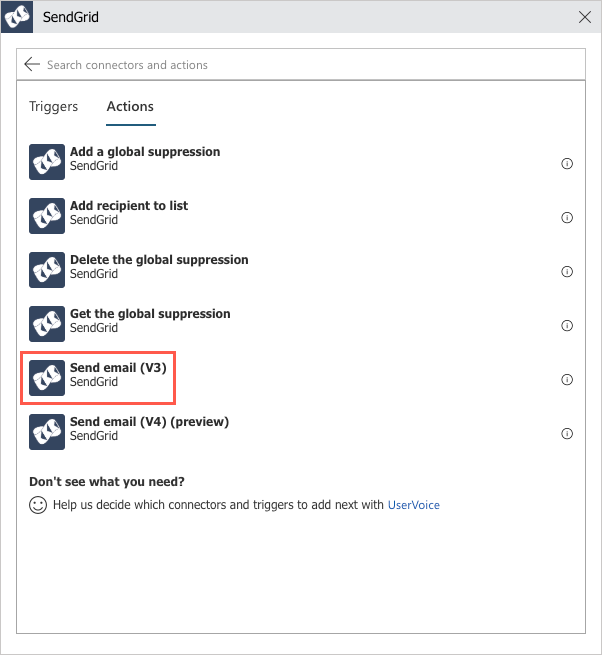
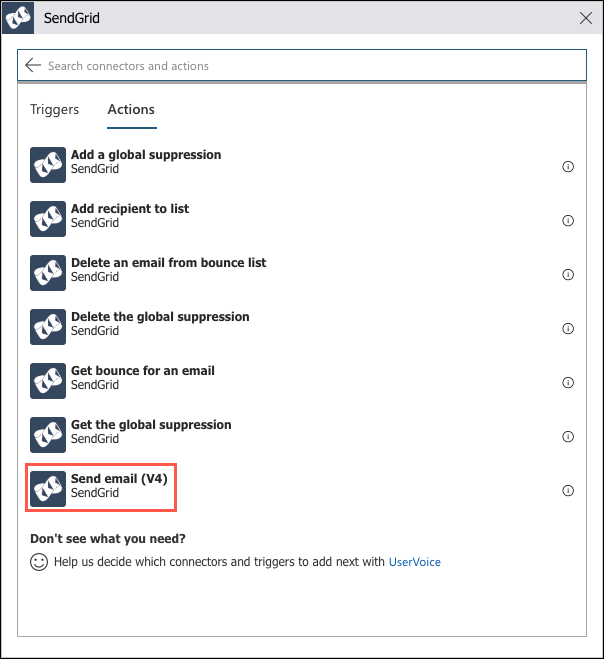
HOL exercise 7 updates

Changed region(s): [[0.0, 0.0, 1.0, 1.0]]

diff --git a/Hands-on lab/HOL step-by step - OSS PaaS and DevOps.md b/Hands-on lab/HOL step-by step - OSS PaaS and DevOps.md
@@ -63,8 +63,8 @@ Microsoft and the trademarks listed at <https://www.microsoft.com/en-us/legal/in
     - [Task 2: Create a timer triggered function](#task-2-create-a-timer-triggered-function)
     - [Task 3: Create Queue function](#task-3-create-queue-function)
   - [Exercise 7: Create Logic App for sending email notifications](#exercise-7-create-logic-app-for-sending-email-notifications)
-    - [Task 1: Create SendGrid account](#task-1-create-sendgrid-account)
-    - [Task 2: Create Logic App](#task-2-create-logic-app)
+    - [Task 1: Create a SendGrid account](#task-1-create-a-sendgrid-account)
+    - [Task 2: Create a Logic App](#task-2-create-a-logic-app)
   - [After the hands-on lab](#after-the-hands-on-lab)
     - [Task 1: Delete Azure resource groups](#task-1-delete-azure-resource-groups)
     - [Task 2: Delete WebHooks and Service Integrations](#task-2-delete-webhooks-and-service-integrations)
@@ -1583,11 +1583,11 @@ This uses an Azure Storage Queue trigger, and an input dataset from Cosmos DB, p
 
 Duration: 30 minutes
 
-In this exercise, you create Logic App which will trigger when an item is added to the `notificationqueue` Azure Storage Queue. The Logic App will send an email message to the email address included in the `notificationqueue` message.
+In this exercise, you create Logic App, which triggers whenever an item is added to the `notificationqueue` Azure Storage Queue. The Logic App sends an email message to the email address included in the `notificationqueue` message.
 
-### Task 1: Create SendGrid account
+### Task 1: Create a SendGrid account
 
-In this task, you will create a SendGrid account through the Azure portal to send email notifications to customers, informing them that their order has been processed, and is on its way.
+In this task, you will create a SendGrid account through the Azure portal to send email notifications to customers, informing them that their order has been processed and is on its way.
 
 1. In the [Azure portal](https://portal.azure.com/), select the **Show portal menu** icon and then select **+Create a resource** from the menu.
 
@@ -1601,33 +1601,45 @@ In this task, you will create a SendGrid account through the Azure portal to sen
 
     ![The Create button is highlighted on the SendGrid blade.](media/sendgrid-create.png "Create SendGrid")
 
-4. On the Create a new SendGrid Account blade, enter the following:
+4. On the Create a new SendGrid Account **Basics** tab, enter the following:
+
+    **Project details**:
+
+    - **Subscription** Select the subscription you are using for this hands-on lab.
+    - **Resource group**: Choose **Use existing** and select the **hands-on-lab-SUFFIX** resource group.
+    - **Location**: Select the location you are using for resources in this hands-on lab.
+
+    **Account details**:
 
     - **Name**: Enter **bfyoemail**.
     - **Password**: Enter **Password.1!!**
-    - **Subscription** Select the subscription you are using for this hands-on lab.
-    - **Resource group**: Choose **Use existing** and select the **hands-on-lab-SUFFIX** resource group.
-    - **Pricing tier**: Select **F1 Free** and choose **Select**.
-    - **Contact information**: Enter your name, company, and email address and select **OK**.
-    - **Legal terms**: Review the legal terms and enter a phone number and then select **OK**.
+    - **Pricing tier**: Select the **Free** plan.
 
-    ![The values specified above are entered into the create a new SendGrid account blade.](media/sendgrid-create-settings.png "Create SendGrid account")
+    **Contact details**:
 
-5. Select **Create** to provision the SendGrid account.
+    - Enter your information into the required fields (First Name, Last Name, Email, Company, and Website)
+
+        > **Note**: Website is not listed as a required field, but currently, the deployment fails if this is not populated.
+
+    ![The SendGrid configuration values specified above are entered into the create a new SendGrid account blade.](media/sendgrid-create-settings.png "Create SendGrid account")
+
+5. Select **Review + create** and then select **Create** to provision the SendGrid account.
 
 6. When the SendGrid account finishes provisioning, select **Go to resource** from the notifications pane in the Azure portal.
 
-    ![The Go to resource button in highlighted in the SendGrid deployment notification.](media/go-to-resource-sendgrid.png "Go to resource")
+    ![The Go to resource button is highlighted in the SendGrid deployment notification.](media/go-to-resource-sendgrid.png "Go to resource")
 
 7. On the SendGrid account blade, select **Manage** from the toolbar.
 
     ![The Manage button is highlighted on the SendGrid account toolbar.](media/sendgrid-manage.png "SendGrid account Manage")
 
-8. On the SendGrid page that opens, expand **Settings** in the left-hand menu, select **API Keys**, and then select **Create API Key**.
+8. If prompted, select **Send Confirmation Email** and follow the prompts in the email you receive to confirm your account.
+
+9. On the SendGrid page that opens, expand **Settings** in the left-hand menu, select **API Keys**, and then select **Create API Key**.
 
     ![The Create API Key button is highlighted on the API Keys page.](media/sendgrid-create-api-key.png "SendGrid API Keys")
 
-9. On the Create API Key page, enter the following:
+10. On the Create API Key page, enter the following:
 
     - **API Key Name**: Enter **bfyo-api-key**.
     - **API Key Permissions**: Select **Full Access**.
@@ -1635,13 +1647,13 @@ In this task, you will create a SendGrid account through the Azure portal to sen
 
     ![The values specified above are entered into the Create API Key page.](media/sendgrid-create-api-key-page.png "Create API Key")
 
-10. Leave the API Key Created screen that appears open. You will be copying the key and pasting it into your Logic App in the next task.
+11. Leave the API Key Created screen that appears open. You will be copying the key and pasting it into your Logic App in the next task.
 
     ![The API Key Created screen is displayed.](media/sendgrid-api-key-created.png "API Key Created")
 
-### Task 2: Create Logic App
+### Task 2: Create a Logic App
 
-In this task, you will create a new Logic App, which will use the SendGrid connector to send email notifications to users, informing them that their order has processed and shipped.
+In this task, you create a new Logic App, which uses the SendGrid connector to send email notifications to users, informing them that their order has processed and shipped.
 
 1. In the Azure portal, navigate to your Logic App in the **hands-on-lab-SUFFIX** resource group.
 
@@ -1671,7 +1683,7 @@ In this task, you will create a new Logic App, which will use the SendGrid conne
 
 8. In the **Choose an action box**, enter "parse," and select **Data Operations**.
 
-    ![In the When there are messages in a queue dialog box, Parse is in the Choose an action box, and Data Operations below in the list.](media/data-operations-parse.png "When there are messages in a queue dialog box")
+    ![In the When there are messages in a queue dialog box, Parse is in the Choose an action box and Data Operations below in the list.](media/data-operations-parse.png "When there are messages in a queue dialog box")
 
 9. Under Data Operations, select **Parse JSON**.
 
@@ -1693,7 +1705,7 @@ In this task, you will create a new Logic App, which will use the SendGrid conne
 
     ![The JSON above is pasted in the sample JSON payload dialog box, and Done is selected below.](media/logic-app-parse-json-sample-payload.png "Paste the JSON in the dialog box")
 
-13. You will now see the Schema for messages coming from the notification queue in the Schema box.
+13. You will now see the schema for messages coming from the notification queue in the Schema box.
 
     ![The completed Parse JSON box is displayed.](media/logic-app-parse-json-complete.png "Parse JSON")
 
@@ -1705,9 +1717,9 @@ In this task, you will create a new Logic App, which will use the SendGrid conne
 
     ![SendGrid is entered into the search box, and the SendGrid connection is highlighted under connectors.](media/logic-app-connectors-sendgrid.png "Choose a connector")
 
-16. In the **SendGrid** connector dialog, select **Send email (V3)**.
+16. In the **SendGrid** connector dialog, select **Send email (V4)**.
 
-    ![Send email (v2) is highlighted in the list of SendGrid actions.](media/logic-app-sendgrid-send-email.png "SendGrid")
+    ![Send email (v4) is highlighted in the list of SendGrid actions.](media/logic-app-sendgrid-send-email.png "SendGrid")
 
 17. In the **SendGrid** box, enter the following:
 
@@ -1717,7 +1729,7 @@ In this task, you will create a new Logic App, which will use the SendGrid conne
 
     ![The SendGrid connection configuration information above is entered into the SendGrid box.](media/logic-app-sendgrid-create.png "SendGrid")
 
-18. In the **Send email (V3)** box, enter the following:
+18. In the **Send email (V4)** box, enter the following:
 
     - **From**: Enter your email address.
     - **To**: Click in the box, select **Add dynamic content**, and then select the **notificationEmail** property. **NOTE**: If under the Parse JSON Dynamic Content section, you see a message that there were not any outputs to match the input format, select **See more** in the message.
@@ -1733,7 +1745,7 @@ In this task, you will create a new Logic App, which will use the SendGrid conne
 
     ![The Add an action button is highlighted under + New step.](media/logic-app-new-step.png "Add an action button")
 
-20. In the **Choose an action** dialog, enter "queues" in to the search box, and select **Delete message** under Actions.
+20. In the **Choose an action** dialog, enter "queues" into the search box, and select **Delete message** under Actions.
 
     ![Queue is highlighted in the Choose an action search box, and Azure Queues -- Delete message is highlighted below.](media/logic-app-azure-queues-delete-message.png "Choose an action dialog box")
 
@@ -1757,14 +1769,13 @@ In this task, you will create a new Logic App, which will use the SendGrid conne
 
 Duration: 10 minutes
 
-In this exercise, you will de-provision all Azure resources that were created in support of this hands-on lab.
+In this exercise, you will de-provision all Azure resources that you created in support of this hands-on lab.
 
 ### Task 1: Delete Azure resource groups
 
-1. In the Azure portal, select **Resource groups** from the left-hand menu, and locate and delete the following resource groups.
+1. In the Azure portal, select **Resource groups** from the left-hand menu and locate and delete the following resource groups.
 
     - hands-on-lab-SUFFIX
-    - hands-on-lab-func-SUFFIX
     - hands-on-lab-web-SUFFIX
 
 ### Task 2: Delete WebHooks and Service Integrations
